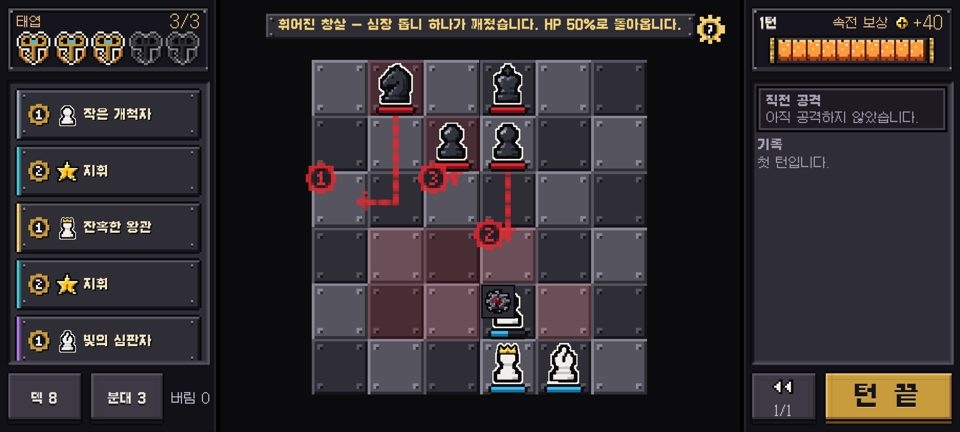
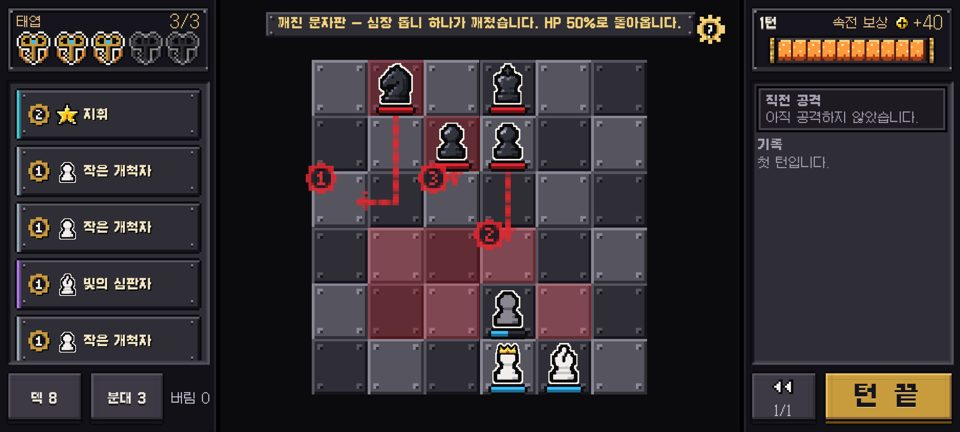
Show cracked pieces by darker fill instead of a badge
판 위 깨진 톱니 딱지를 없앴다. 깨진 내 기물은 외곽선과 바깥 흰 테는 그대로 두고, 속 칠만 한 단계 어두운 쇠 색으로 바꾼다(사용자: 딱지는 보드가 더럽다).
기물 그림 색을 1:1로 바꾼 텍스처를 시작할 때 만들기 때문에 도트가 그대로 남는다. 승격해도 같은 규칙을 따른다.

Claude-Session: https://claude.ai/code/session_011jC4ZCDKW43H5FzLWnYVpe

diff --git a/src/view/BoardRenderer.ts b/src/view/BoardRenderer.ts
@@ -60,6 +60,8 @@ export interface BoardInput {
 }
 
 /** 터치 기기 칸 최대 크기 (CSS px) */
+/** 깨진 심장 톱니 속 칠 (D-219): 흰 기물 팔레트 → 한 단계 어두운 쇠 색. 외곽선 #0b0b0e · 바깥 흰 테 #f4f1ea는 그대로 */
+const CRACK_TONE: Record<number, number> = { 0xf1eeec: 0x8a8790, 0xc5c3c3: 0x5f5d66, 0x858488: 0x45434b, 0x3a393e: 0x2a2930 };
 const BOARD_TILE_TOUCH_MAX = 54; // 도트 내림(DPR 2.625 → 칸 53.3px)이 48 아래로 가지 않게
 const tileSize = (dpr: number, cols: number, rows: number, viewW: number, viewH: number): number => {
   // 터치 기기 칸 상한 약 53px (D-214, 사용자: "4×4 · 6×6이 화면을 꽉 채워 부담스럽다") — 터치 하한 48은 지킨다
@@ -167,7 +169,7 @@ class BoardScene extends Phaser.Scene {
   }
   /** 원수 (D-178): 이 기물 왼쪽 위에 진홍 해골 딱지 */
   nemesisId: number | null = null;
-  /** 심장 톱니가 깨진 내 기물 (D-219): 왼쪽 위에 깨진 톱니 딱지 — 또 쓰러지면 폐기 */
+  /** 심장 톱니가 깨진 내 기물 (D-219): 외곽선은 그대로, 속 칠만 어둡게 — 판에 딱지를 더하지 않는다 (사용자: "보드가 더럽다") */
   crackedIds: number[] = [];
 
   preload(): void {
@@ -176,13 +178,44 @@ class BoardScene extends Phaser.Scene {
     for (const n of BOARD_IMAGES) this.load.image(boardKey(n), `ui/board/${n}.png`);
     this.load.image(boardKey('skull'), 'ui/hud/skull-small.png');
     for (const name of ['reticle', 'star', 'crown', 'flame', 'claw', 'skull']) if (!this.textures.exists(`icon-${name}`)) this.load.image(`icon-${name}`, `ui/icons/${name}.png`);
-    if (!this.textures.exists('ic16-life-crack')) this.load.image('ic16-life-crack', 'ui/icons16/life.crack.png');
+  }
+
+  /**
+   * 깨진 심장 톱니 기물 (D-219): 내 기물 그림에서 검은 외곽선 · 바깥 흰 테는 두고 속 칠 색만 팔레트로 한 단계씩 어둡게 바꾼 텍스처.
+   * 색을 1:1로 바꿀 뿐이라 도트가 그대로 남는다 (그라데이션 · 반투명 없음). 명도 차이라 색약에도 보인다.
+   */
+  private makeCrackedTexture(type: PieceType): void {
+    const key = `${pieceKey(type, 0)}-crack`;
+    if (this.textures.exists(key)) return;
+    const src = this.textures.get(pieceKey(type, 0)).getSourceImage() as HTMLImageElement;
+    const tex = this.textures.createCanvas(key, src.width, src.height);
+    if (!tex) return;
+    const ctx = tex.getContext();
+    ctx.drawImage(src, 0, 0);
+    const img = ctx.getImageData(0, 0, src.width, src.height);
+    const px = img.data;
+    for (let i = 0; i < px.length; i += 4) {
+      if (px[i + 3] === 0) continue;
+      const to = CRACK_TONE[(px[i] << 16) | (px[i + 1] << 8) | px[i + 2]];
+      if (to === undefined) continue;
+      px[i] = (to >> 16) & 255;
+      px[i + 1] = (to >> 8) & 255;
+      px[i + 2] = to & 255;
+    }
+    ctx.putImageData(img, 0, 0);
+    tex.refresh();
+    tex.setFilter(Phaser.Textures.FilterMode.NEAREST);
+  }
+  /** 이 기물이 쓸 그림 (깨진 내 기물이면 어두운 속 칠) */
+  private glyphKey(id: number, type: PieceType, side: Side): string {
+    return side === 0 && this.crackedIds.includes(id) && this.textures.exists(`${pieceKey(type, 0)}-crack`) ? `${pieceKey(type, 0)}-crack` : pieceKey(type, side);
   }
 
   create(): void {
     for (const type of ['P', 'N', 'B', 'R', 'Q', 'K'] as PieceType[])
       for (const side of [0, 1] as Side[]) this.textures.get(pieceKey(type, side)).setFilter(Phaser.Textures.FilterMode.NEAREST);
     for (const n of [...BOARD_IMAGES, 'skull']) this.textures.get(boardKey(n)).setFilter(Phaser.Textures.FilterMode.NEAREST);
+    for (const type of ['P', 'N', 'B', 'R', 'Q', 'K'] as PieceType[]) this.makeCrackedTexture(type);
     this.cameras.main.setZoom(this.dpr);
     this.camZoom = this.dpr;
     this.cameras.main.setBackgroundColor(C.bg);
@@ -418,17 +451,8 @@ class BoardScene extends Phaser.Scene {
       tag.lineStyle(Math.max(1, t * 0.03), 0xfacc15, 1).strokeRect(t * 0.02, t * 0.02, size, size);
       marks.push(tag, this.add.image(t * 0.02 + size / 2, t * 0.02 + size / 2, 'icon-skull').setDisplaySize(size * 0.72, size * 0.72).setTint(0xf4f1ea));
     }
-    // 깨진 심장 톱니 (D-219): 내 기물 왼쪽 위 검은 쇠 딱지 — 아이콘 14도트를 판 도트 정수배로
-    if (p.side === 0 && this.crackedIds.includes(p.id)) {
-      const d = t / BOARD_DOTS;
-      const size = Math.round(10 * d);
-      const tag = this.add.graphics();
-      tag.fillStyle(0x0b0b0e, 1).fillRect(t * 0.02, t * 0.02, size + 2 * d, size + 2 * d);
-      tag.fillStyle(0x2f2e36, 1).fillRect(t * 0.02 + d * 0.5, t * 0.02 + d * 0.5, size + d, size + d);
-      marks.push(tag, this.add.image(t * 0.02 + d + size / 2, t * 0.02 + d + size / 2, 'ic16-life-crack').setDisplaySize(size, size));
-    }
     // 도트 기물 (머리 강조형 16×16) — 받침 위에 살짝 올려 그린다
-    const glyph = this.add.image(t / 2, t * 0.43, pieceKey(p.type, p.side)).setDisplaySize(t * 0.82, t * 0.82);
+    const glyph = this.add.image(t / 2, t * 0.43, this.glyphKey(p.id, p.type, p.side)).setDisplaySize(t * 0.82, t * 0.82);
     const hp = this.add.graphics();
     root.add([base, ...rings, glyph, ...marks, hp]);
     root.setAlpha(alpha);
@@ -1410,7 +1434,7 @@ class BoardScene extends Phaser.Scene {
       if (e.type === 'promote') {
         const s = this.sprites.get(e.pieceId);
         if (s) {
-          s.glyph.setTexture(pieceKey(e.to, s.piece.side));
+          s.glyph.setTexture(this.glyphKey(s.piece.id, e.to, s.piece.side));
           s.piece = { ...s.piece, type: e.to };
         }
         continue;

diff --git a/tools/fxlab/decisions.ts b/tools/fxlab/decisions.ts
@@ -154,7 +154,7 @@ export const DECISIONS: { item: string; rule: string; status: Status }[] = [
   { item: '레일 단추 · 도움말', rule: '덱 · 분대 · 되감기 · 턴 끝 모두 철 · 황동 도트 단추. 도움말은 판 무대 오른쪽 위의 태엽 톱니 속 ? (D-211)', status: 'review' },
   { item: '보상 등급', rule: '희귀 청강 · 황금 황동 도트 테두리 + 딱지, 들썩(눌림 → 튀어 오름 → 출렁) + 불똥, 황금은 화면 전체 금빛 디더 + 귀퉁이 반짝임 4칸 (D-216)', status: 'review' },
   { item: '페이드 금지', rule: '나타남 · 사라짐은 모두 체크무늬 디더 5단계 (CSS 81종 · 코드 애니메이션 · 판 위 투명도 트윈은 4단 계단). 둥근 모서리 · 번지는 그림자 · 부드러운 그라데이션 제거, 빛줄기는 도트 방사선 그림 (D-216)', status: 'review' },
-  { item: '심장 톱니 (목숨 둘)', rule: '분대원마다 황동 톱니 둘(속에 붉은 심장) — 깨지면 이 빠진 검은 쇠 톱니 + 가운데 검은 금. 쓰러지는 순간: 판 가운데 큰 톱니가 흔들림(예비) → 부풀어 터짐 → 깨진 톱니로 바뀌며 출렁 + 황동 파편 셋이 계단으로 튐. 작업대에서 끼울 때: 들렸다가 떨어져 박히고 출렁. 깨진 내 기물은 판 위 왼쪽 위 검은 쇠 딱지 (D-219)', status: 'review' },
+  { item: '심장 톱니 (목숨 둘)', rule: '분대원마다 황동 톱니 둘(속에 붉은 심장) — 깨지면 이 빠진 검은 쇠 톱니 + 가운데 검은 금. 쓰러지는 순간: 판 가운데 큰 톱니가 흔들림(예비) → 부풀어 터짐 → 깨진 톱니로 바뀌며 출렁 + 황동 파편 셋이 계단으로 튐. 작업대에서 끼울 때: 들렸다가 떨어져 박히고 출렁. 깨진 내 기물은 판 위에서 외곽선 · 흰 테는 그대로, 속 칠만 한 단계 어두운 쇠 색 — 딱지를 더하지 않는다 (D-219, 사용자: 보드가 더럽다)', status: 'review' },
   { item: '카드 얼굴', rule: '보상 · 고물상 공통: 등급 9-slice 틀(일반 철 · 희귀 청강 — 테 반짝임 2칸 · 황금 황동 — 테를 도는 불빛 4칸) · 머리띠 이름 · 체크무늬 그림 창 · 성질 줄 · 설명 · 아래 등급 보석. 고물상 값은 황동 가격표 도트(못 사면 철판) (D-217 3)', status: 'review' },
   // 확정 (v49: 오래 게임에 들어가 있고 지적 없던 것은 확정으로 옮김 — 바꾸고 싶으면 말해 주세요)
   { item: '도트 격자', rule: '판 칸 20×20 도트, 기물 약 16도트 높이(칸의 0.82). 판·표식·이펙트 모두 같은 격자', status: 'done' },
@@ -182,7 +182,7 @@ export const DECISIONS: { item: string; rule: string; status: Status }[] = [
 ];
 
 export const CHANGELOG: { v: number; date: string; items: string[] }[] = [
-  { v: 59, date: '2026-11-03', items: ['심장 톱니 (목숨 둘): 성한 · 깨진 톱니 도트, 깨짐 · 끼움 계단 연출, 판 위 깨진 톱니 딱지 (D-219)'] },
+  { v: 59, date: '2026-11-03', items: ['심장 톱니 (목숨 둘): 성한 · 깨진 톱니 도트, 깨짐 · 끼움 계단 연출, 판 위 깨진 기물 = 속 칠만 어둡게 (딱지 없음) (D-219)'] },
   { v: 58, date: '2026-11-03', items: ['카드 얼굴 리뉴얼 · 등급 오라(희귀 반짝임 · 황금 불빛) · 고물상 가격표 (D-217 3)'] },
   { v: 57, date: '2026-11-03', items: ['그래픽 철학 확정 (D-216): 페이드 · 그라데이션 · 둥근 모서리 · 번짐 일괄 제거, 보상 등급 연출, 도트 방사선'] },
   { v: 56, date: '2026-11-03', items: ['속전 게이지 → 끓는 쇳물 보일러관 · 태엽 5칸(3칸 켜짐) · 탄창 칭호 5자 · 갈무리 글씨 통일 (D-212)'] },
